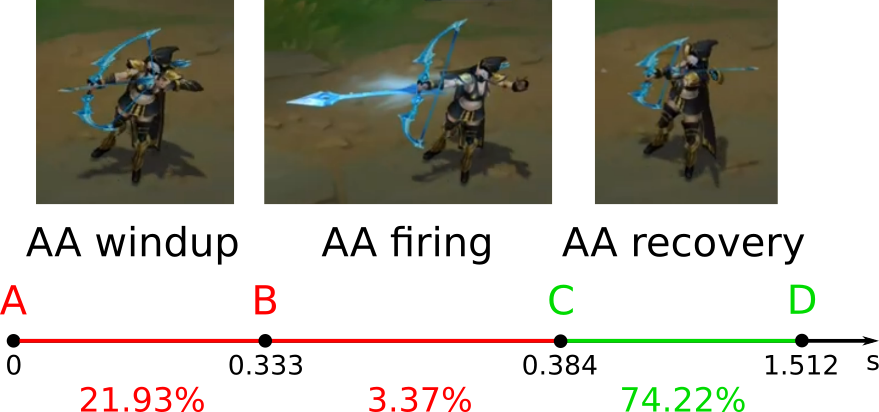
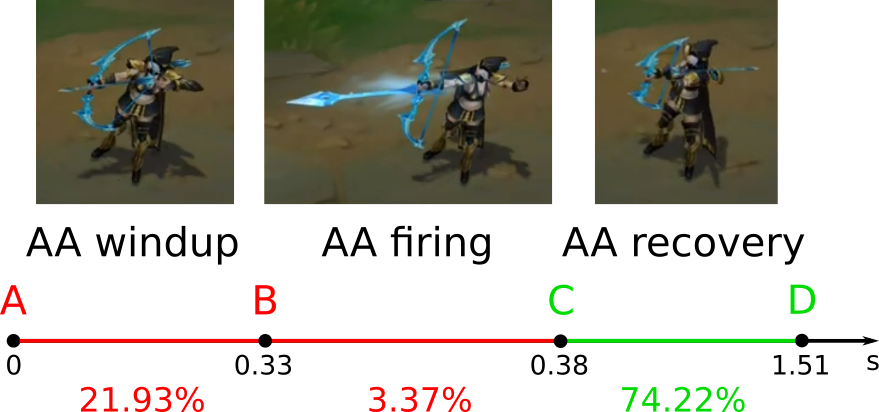
Continue the "Micromanagement. Abilities animation" section

Changed region(s): [[0.8601, 0.8447, 0.9522, 0.932], [0.5836, 0.8447, 0.6758, 0.932], [0.2457, 0.8447, 0.3686, 0.932]]

diff --git a/manuscript/Micromanagement/attack-animation.md b/manuscript/Micromanagement/attack-animation.md
@@ -8,10 +8,10 @@
 
 [**Базовая атака**](https://leagueoflegends.fandom.com/wiki/Basic_attack) или автоатака (basic attack, auto attack или AA) — это стандартное действие для нанесения противнику урона, которое доступно каждому чемпиону. Чтобы выполнить автоатаку, игрок должен нажать правой кнопкой мыши по врагу.
 
-Каждый чемпион выполняет автоатаку с определённой скоростью. Эта скорость указана в его характеристиках. Например, у Ashe на первом уровне [**базовая скорость атаки**](https://leagueoflegends.fandom.com/wiki/Attack_speed) (base attack speed или AS) равна 0.658. Некоторые предметы, руны и умения увеличивают скорости атаки. Например, предмет [наголенники берсерка](https://leagueoflegends.fandom.com/ru/wiki/Наголенники_берсерка) (Berserker's Greaves) увеличивают её на 35%. Если Ashe купит этот предмет на первом уровне, её скорость атаки станет следующей:
+Каждый чемпион выполняет автоатаку с определённой скоростью. Эта скорость указана в его характеристиках. Например, у Ashe на первом уровне [**базовая скорость атаки**](https://leagueoflegends.fandom.com/wiki/Attack_speed) (base attack speed или AS) примерно равна 0.66. Некоторые предметы, руны и умения увеличивают скорости атаки. Например, предмет [наголенники берсерка](https://leagueoflegends.fandom.com/ru/wiki/Наголенники_берсерка) (Berserker's Greaves) увеличивают её на 35%. Если Ashe купит этот предмет на первом уровне, её скорость атаки станет следующей:
 {line-numbers: false, format: text}
 ```
-0.658 * (1 + 35 / 100) = 0.8883
+0.66 * (1 + 35 / 100) ~ 0.89
 ```
 
 Мы получили **общую скорость атаки** чемпиона (total attack speed). Она учитывает: 
@@ -22,7 +22,7 @@
 
 3. Все действующие усиления и ослабления.
 
-Что означает общая скорость атаки 0.8883? Это число определяет **время перезарядки автоатаки** (auto attack cooldown). Чтобы его рассчитать, подставим скорость атаки в следующую формулу:
+Что означает общая скорость атаки 0.89? Это число определяет **время перезарядки автоатаки** (auto attack cooldown). Чтобы его рассчитать, подставим скорость атаки в следующую формулу:
 {line-numbers: false, format: text}
 ```
 время перезарядки автоатаки = 1 / общая скорость атаки
@@ -31,20 +31,20 @@
 В нашем примере с Ashe время перезарядки автоатаки будет следующим:
 {line-numbers: false, format: text}
 ```
-время перезарядки автоатаки = 1 / 0.8883 ~ 1.126
+время перезарядки автоатаки = 1 / 0.89 ~ 1.12
 ```
 
-Это означает, что минимальная задержка между двумя автоатаками Ashe составляет примерно 1.126 секунд. Другими словами, чемпиону нужно 2.252 секунды, чтобы выполнить полную анимацию двух автоатак.
+Это означает, что минимальная задержка между двумя автоатаками Ashe составляет примерно 1.12 секунды. Другими словами, чемпиону нужно 2.24 секунды, чтобы выполнить полную анимацию двух автоатак.
 
 Если у Ashe первого уровня нет никаких предметов, время перезарядки её автоатаки будет таким:
 {line-numbers: false, format: text}
 ```
-время перезарядки автоатаки = 1 / 0.658 ~ 1.52
+время перезарядки автоатаки = 1 / 0.66 ~ 1.52
 ```
 
-В этом случае чемпион потратит 3.04 секунды  на полную анимации двух автоатак.
+В этом случае чемпион потратит 3 секунды  на полную анимации двух автоатак.
 
-Наголенники берсерка уменьшают время перезарядки автоатаки с 1.52 до 1.126 секунд. Это означает, что с этим предметов чемпион выполнит две автоатаки на 0.788 секунд быстрее.
+Наголенники берсерка уменьшают время перезарядки автоатаки с 1.52 до 1.12 секунды. Это означает, что с этим предметов чемпион выполнит две автоатаки на `3 - 2.24 = 0.76` секунды быстрее.
 
 ### 3.1.2 Фазы анимации автоатаки
 
@@ -61,25 +61,25 @@
 {caption: "Иллюстрация 3-1. Временная диаграмма автоатаки", width: "100%"}
 ![Временная диаграмма автоатаки](images/Micromanagement/ashe-attack-animation.png)
 
-На горизонтальной оси s отложены секунды. В точке A игрок нажимает правой кнопкой мыши на цель. С этого момента чемпион проигрывает анимацию windup: Ashe натягивает тетиву лука. Анимация длится 21.93% от всего времени перезарядки автоатаки. Если чемпион первого уровня и не имеет предметов, его время перезарядки равно 1.52 секундам. Поэтому анимация windup займёт 0.333 секунды:
+На горизонтальной оси s отложены секунды. В точке A игрок нажимает правой кнопкой мыши на цель. С этого момента чемпион проигрывает анимацию windup: Ashe натягивает тетиву лука. Анимация длится 21.93% от всего времени перезарядки автоатаки. Если чемпион первого уровня и не имеет предметов, его время перезарядки равно 1.52 секундам. Поэтому анимация windup займёт 0.33 секунды:
 {line-numbers: false, format: text}
 ```
-1.52 * 0.2193 = 0.333336
+1.52 * 21.93 / 100 ~ 0.33
 ```
 
-Анимация windup заканчивается в точке B. После этого чемпион проигрывает анимацию firing: Ashe отпускает тетиву и стрела вылетает в цель. Эта анимация занимает всего 3.37% от времени перезарядки автоатаки. Она длится 0.051 секунду:
+Анимация windup заканчивается в точке B. После этого чемпион проигрывает анимацию firing: Ashe отпускает тетиву и стрела вылетает в цель. Эта анимация занимает всего 3.37% от времени перезарядки автоатаки. Она длится 0.05 секунды:
 {line-numbers: false, format: text}
 ```
-1.52 * 0.0337 = 0.051224
+1.52 * 3.37 / 100 ~ 0.05
 ```
 
-В точке C начинается анимация recovery: Ashe достаёт из колчана за спиной следующую стрелу и накладывает её на тетиву лука. Эта анимация занимает большую часть времени перезарядки автоатаки — 74.22%. Она длится 1.128 секунд:
+В точке C начинается анимация recovery: Ashe достаёт из колчана за спиной следующую стрелу и накладывает её на тетиву лука. Эта анимация занимает большую часть времени перезарядки автоатаки — 74.22%. Она длится 1.13 секунды:
 {line-numbers: false, format: text}
 ```
-1.52 * 0.7422 = 1.128144
+1.52 * 74.22 / 100 ~ 1.13
 ```
 
-В точке D Ashe проиграла полный цикл анимации автоатаки. С момента клика игроком по цели прошло 1.512 секунды. Если не дать чемпиону новую команду, он начинает следующий цикл анимации автоатаки по той же цели.
+В точке D Ashe проиграла полный цикл анимации автоатаки. С момента клика игроком по цели прошло 1.52 секунды. Если не дать чемпиону новую команду, он начинает следующий цикл анимации автоатаки по той же цели.
 
 В любой момент на диаграмме 3-1 игрок может дать чемпиону команду на движение. Её результат зависит от анимации, которую проигрывает чемпион в данный момент. Всего возможны [3 случая](https://leagueoflegends.fandom.com/wiki/Stutter-stepping):
 

diff --git a/manuscript/Micromanagement/abilities-animation.md b/manuscript/Micromanagement/abilities-animation.md
@@ -1,4 +1,4 @@
-## 3.2 Работа с анимацией умений
+## 3.2 Анимация умений
 
 Алгоритм базовой атаки у всех чемпионов одинаковый. При этом длительность каждой фазы анимации и базовая скорость атаки различаются. Но эти различия — несущественная деталь. Принцип исполнения техник attack move и отмены анимации атаки умением один и тот же для всех чемпионов.
 

diff --git a/manuscript/Micromanagement/README.md b/manuscript/Micromanagement/README.md
@@ -1,4 +1,4 @@
-## 3 Микроменеджмент
+# 3 Микроменеджмент
 
 C> *Я не боюсь того, кто изучает 10000 различных ударов. Я боюсь того, кто изучает один удар 10000 раз.*
 C>

diff --git a/manuscript/Micromanagement/positioning.md b/manuscript/Micromanagement/positioning.md
@@ -11,3 +11,5 @@
 #### 3.1.3.3 Тренировка уклонений
 
 // TODO: Дать советы о том, как тренировать уклонение
+
+{pagebreak}
